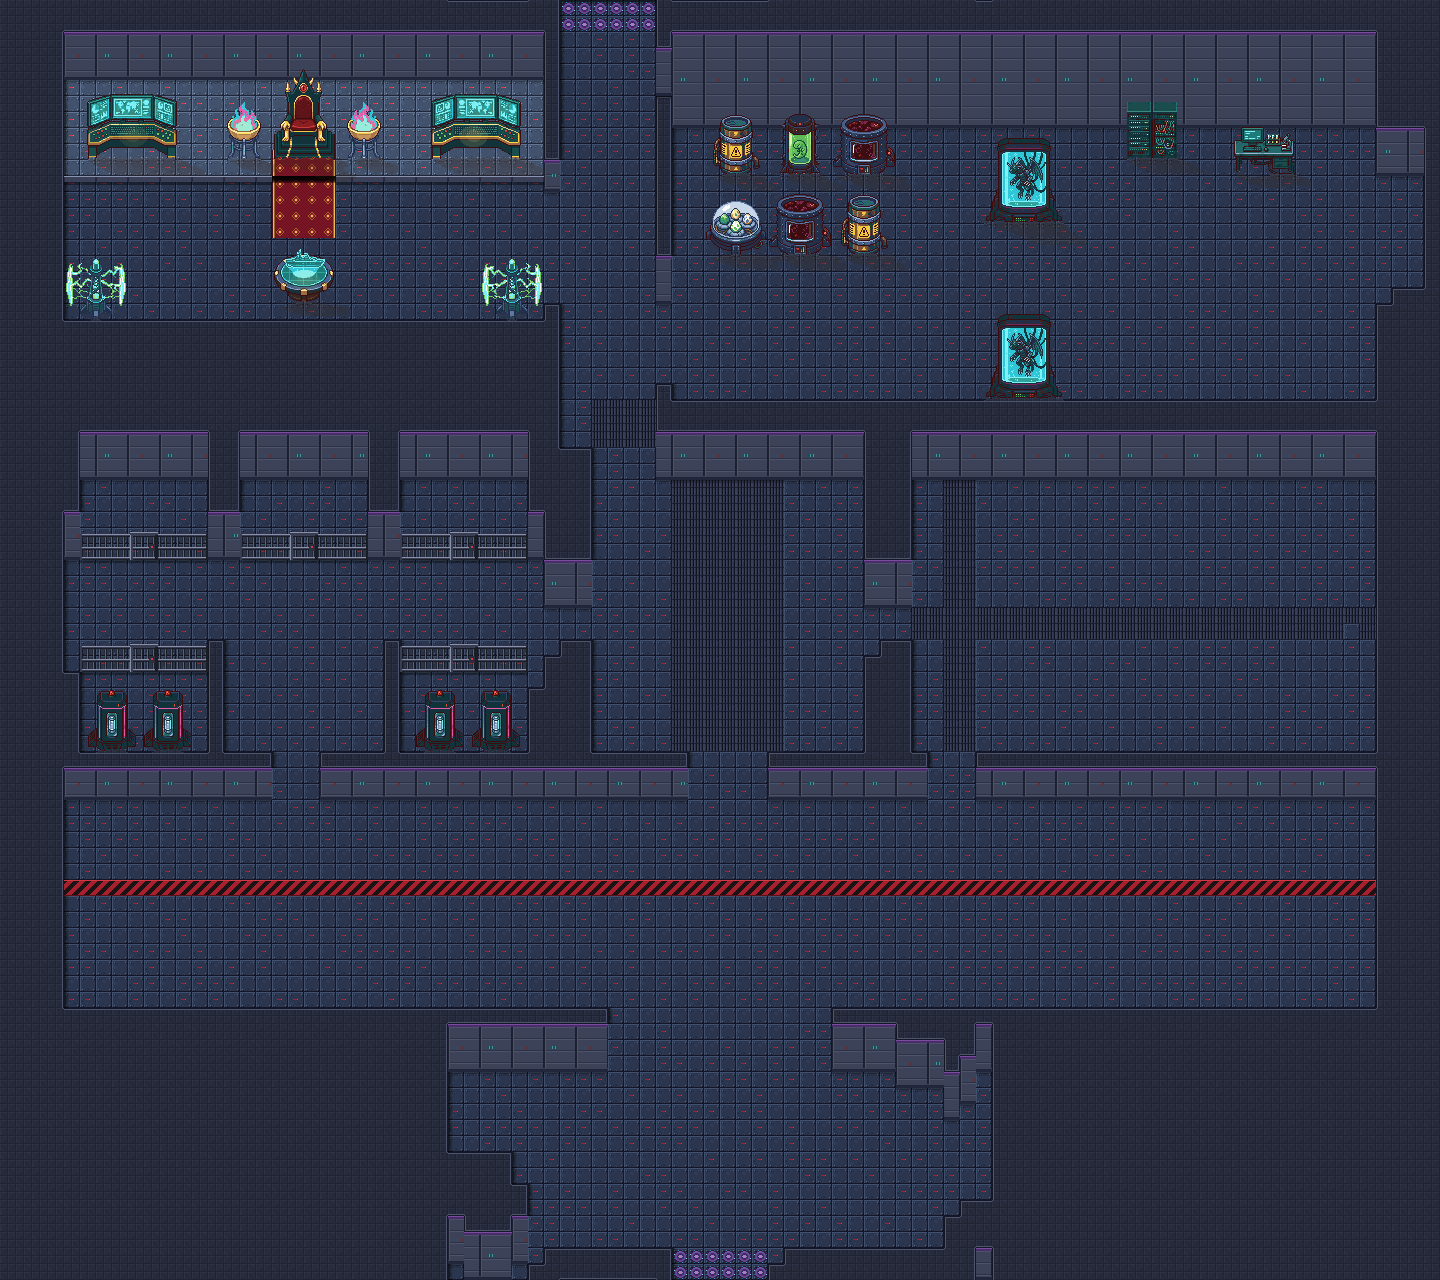
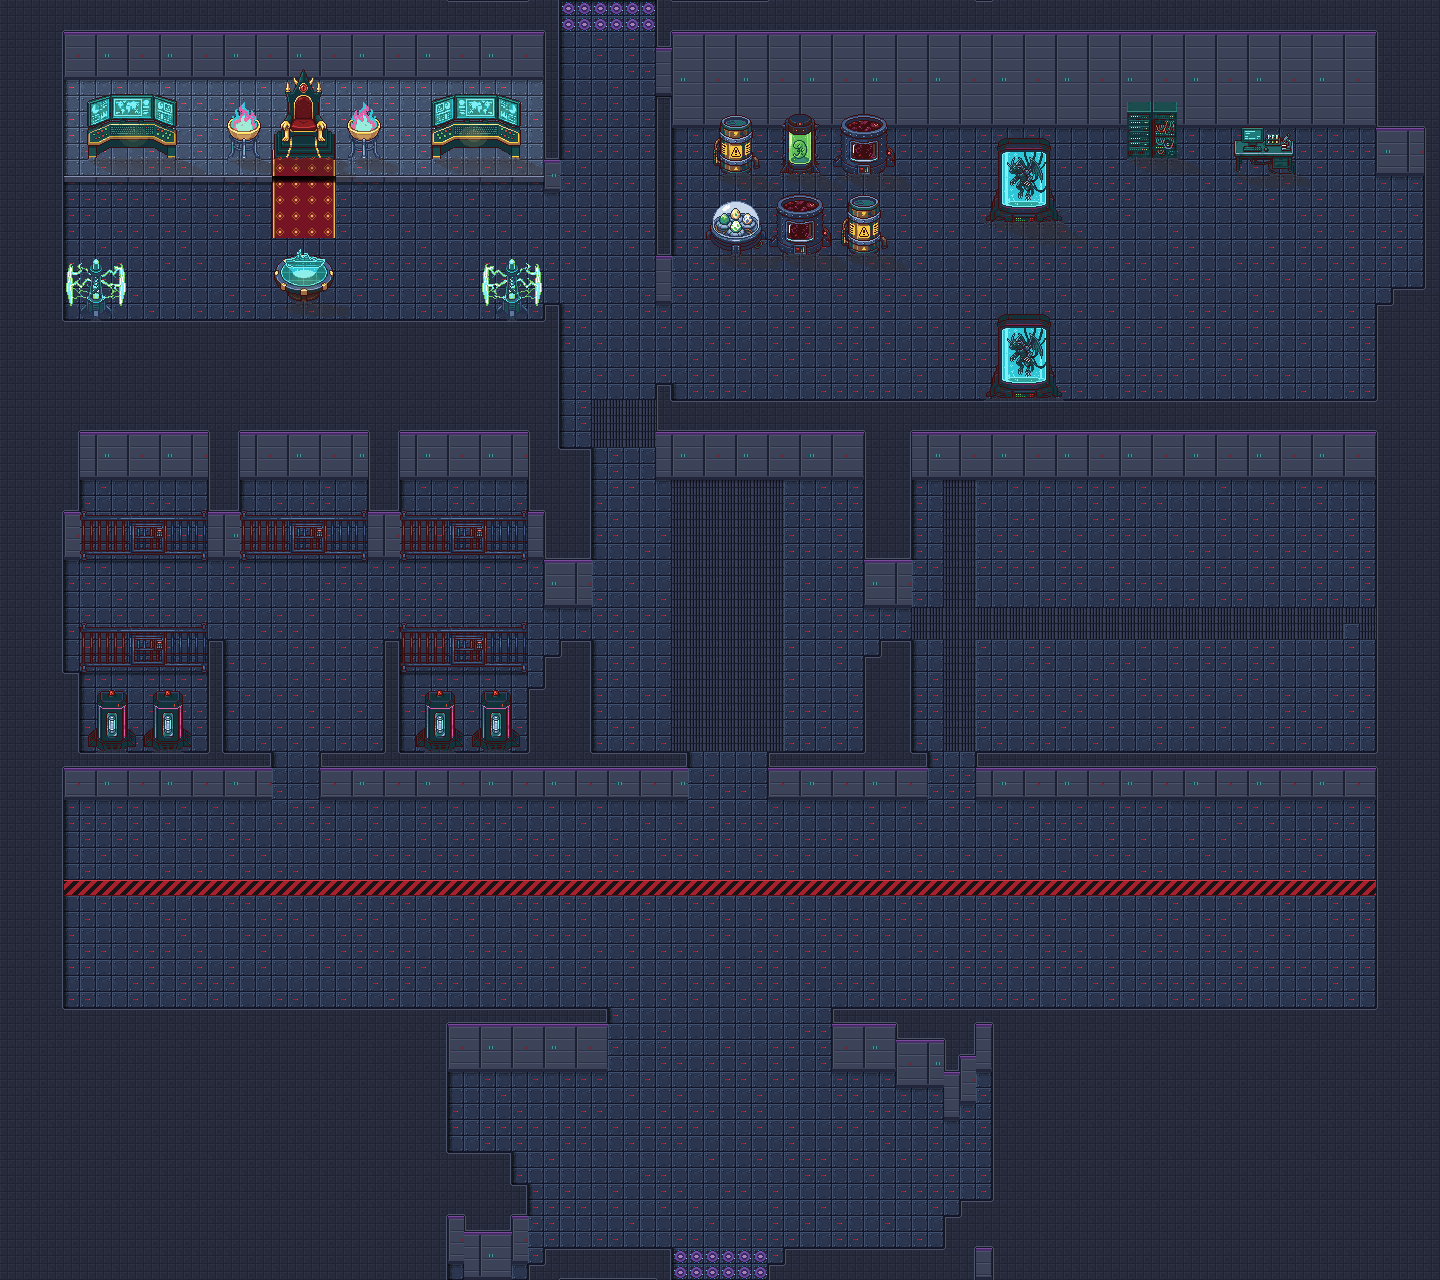
Karte 26: Zellengitter aus PixelLab (k26_gitter/00) statt gezeichnet, auf Zellengroesse zusammengesetzt
Claude-Session: https://claude.ai/code/session_01SaoYHKhnro4LFcPJqjaPsq

Changed region(s): [[0.0312, 0.4062, 0.375, 0.4375], [0.0312, 0.4688, 0.1562, 0.5312], [0.2812, 0.4688, 0.375, 0.5312]]

diff --git a/tools/karte26_bauen.py b/tools/karte26_bauen.py
@@ -131,6 +131,20 @@ GITTER_S = []                                    # Seiten der Eckzellen sind jet
 
 
 def zellengitter(a, frame):
+    """Gitterfronten aus dem PixelLab-Gitter (k26_gitter/00, auf Zellengroesse zusammengesetzt: gitter/zelle.png),
+    Fuss buendig auf der Linie yb, Kontaktschatten darunter (Nutzer: erstellen lassen statt zeichnen)."""
+    sp = Image.open(os.path.join(OBJ, 'gitter', 'zelle.png')).convert('RGBA')
+    im = Image.fromarray(a).convert('RGBA')
+    for (x0, x1, yb, tuer) in GITTER_W:
+        a_ = np.array(im)
+        a_[yb:yb + 3, x0:x1, :3] = (a_[yb:yb + 3, x0:x1, :3] * 0.6).astype(np.uint8)
+        im = Image.fromarray(a_)
+        g = sp if sp.width == x1 - x0 else sp.resize((x1 - x0, sp.height), Image.NEAREST)
+        im.alpha_composite(g, (x0, yb - g.height + 1))
+    a[:] = np.array(im.convert('RGB'))
+
+
+def zellengitter_alt(a, frame):
     """Eisengitter frontal: Stangen 2 px alle 6 px, 26 px hoch, Ober-/Mittel-/Unterholm, Tuer mit Rahmen und
     rot blinkendem Schloss; Licht von links (helle Kante), Kontaktschatten am Boden. Seitliche Gitter als
     Pfostenreihe von oben (schmal)."""

diff --git a/tools/pixellab_objekte.py b/tools/pixellab_objekte.py
@@ -1903,6 +1903,11 @@ OBJEKTGRUPPEN_K21 = {   # Karte 21 (Digi-Egg Valley), Stil wie Karte 20 / Karte 
         'glass window showing a glowing silver data core cylinder inside, heavy angular black base with vents, ' + FR14,
         'low metal laboratory railing segment of dark steel with a small sliding glass door in the middle, ' + FR14,
     ]},
+    'k26_gitter': {'size': 128, 'items': [
+        'very wide and low prison cell front made of dark iron bars, many thin vertical bars between a top rail, a middle rail '
+        'and a bottom rail, a barred cell door with a frame and a small electronic lock with a red light in the middle, '
+        'the whole front is about five times wider than it is tall, dark steel with subtle purple highlights, ' + FR14,
+    ]},
     'k24_schrein': {'size': 64, 'items': [
         'dark emperor throne made of jagged black obsidian crystal spikes with deep purple and crimson highlights, a high '
         'pointed back, standing on a small stepped dark stone dais, ' + FR14,
